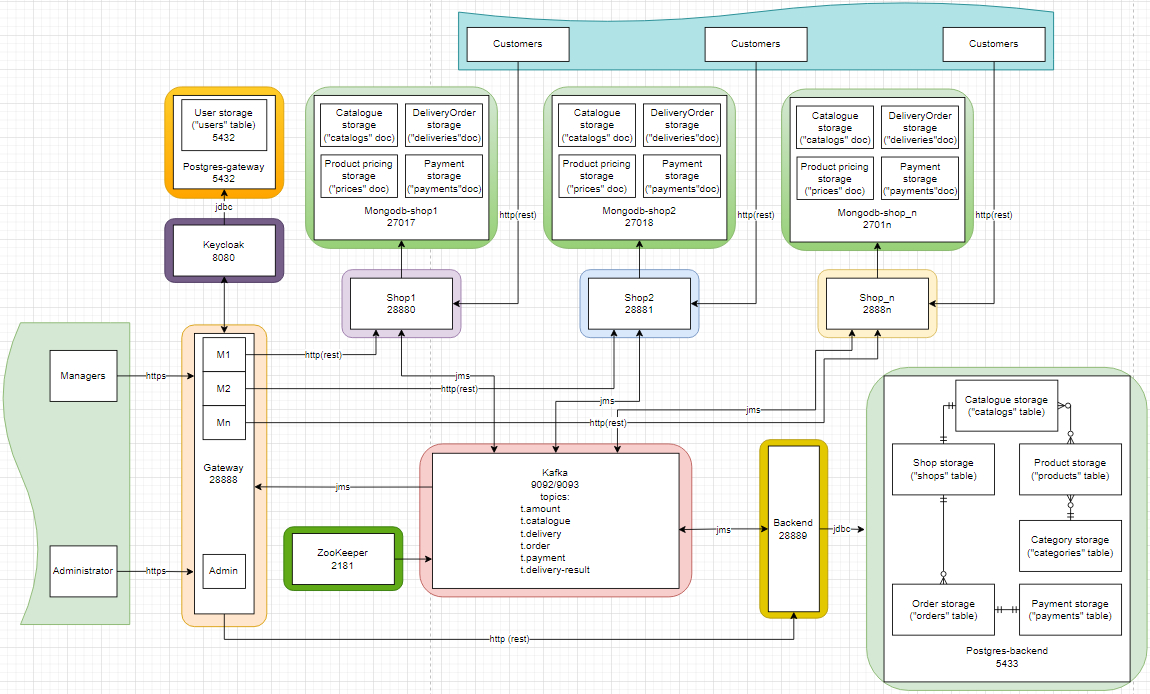
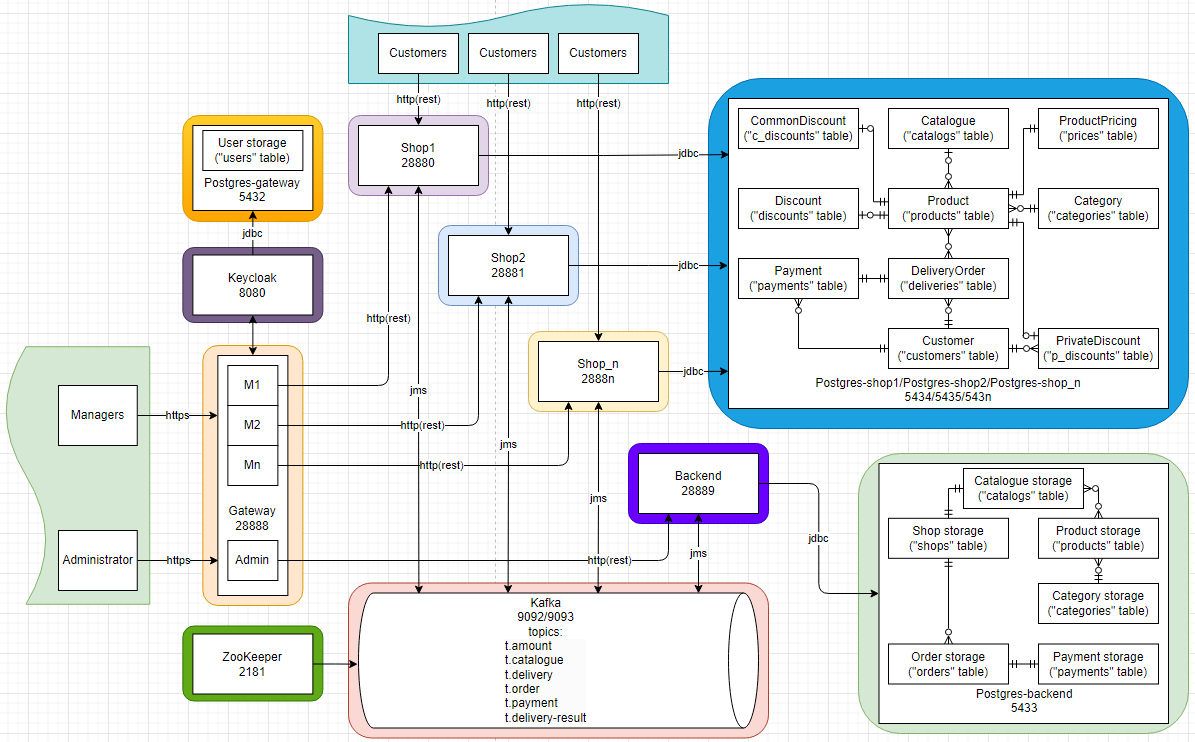
rework shop service from mongodb to postgres step 13 update README.md

diff --git a/README.md b/README.md
@@ -17,11 +17,11 @@ Despite the shortcomings and errors (including architectural ones), this is a gr
     * [Services](#services)
         * [Gateway service](#gateway)
         * [Backend service with PostgresQL database](#backend-with-PostgresQL-database)
-        * [Shop1-n with Mongo database](#Shop1-n-with-Mongo-database)
+        * [Shop1-n with Mongo database](#Shop1-n-with-PostgresQL-database)
         * [Kafka](#kafka)
         * [Zookeeper](#zookeeper)
         * [Keycloak with PostgresQL database](#keycloak-with-PostgresQL-database)
-        * [Mongo-express](#mongo-express)
+        * [~~Mongo-express~~](#mongo-express)
     * [Security](#security)
     * [Running Instructions](#running-instructions)
         * [Via docker](#via-docker)
@@ -40,7 +40,7 @@ Despite the shortcomings and errors (including architectural ones), this is a gr
 
 ### Planned
 
-- Implement the discount system
+- Implement the discount system (in progress)
 - Integrate Apache Cassandra for logging events from all project modules
 - Collecting and displaying statistics for managers and administrator in the web interface
 - Make a simple but visual web interface for customers (registration, purchases, refunds, viewing purchase history)
@@ -57,6 +57,7 @@ The microservice architectural style is an approach to developing a single appli
  - [Early version 004](images/early_version004.jpg)
  - [Early version 005](images/early_version005.jpg)
  - [Early version 006](images/early_version006.jpg)
+ - [Early version 007](images/early_version007.jpg)
 
 
 ## Services
@@ -89,15 +90,17 @@ Its tasks include:
 The service provides storage of information about catalogs, categories, products, stores, orders and payments.
 Since entities have relationships, the popular Postgresql database was chosen to store them.
 
-### Shop1-n with Mongo database
+### Shop1-n with PostgresQL database
 
 The service is designed to serve customers. This service is managed by managers, they make a catalog of products available in the storage, 
-set prices, change prices. Each such service stores information about the catalog, delivered products, payments and current prices. 
-MongoDB is used as the database. Stored entities have no relationships, so it was decided to use a NoSQL database. Here, as well as on 
+set prices, change prices. ~~Each such service stores information about the catalog, delivered products, payments and current prices. 
+MongoDB is used as the database. Stored entities have no relationships, so it was decided to use a NoSQL database.~~ Here, as well as on 
 the backend service, the order expiration mechanism works - after a certain time (now it is 5 minutes), 
 the payment and the order are considered expired and become unavailable for payment. The structure of the Shop service is built so that you can make the required
 number of them with minimal settings (change the marked fields in application.yml, add new service in docker-compose and register a new service on the Gateway service). 
 At the moment, the service has only a REST api for working with customers, but in the future I plan to add a web interface.
+
+Update(03.01.2023) The service has been rewritten to use the PostgresQL database. The addition of the discount system led to relationships between stored entities.
 
 Its tasks include:
  - store and provide a product catalog for customers
@@ -175,8 +178,10 @@ In this project I used the following features:
 
 ### Mongo-express
 
-Web-based MongoDB admin interface written with Node.js, Express and Bootstrap3. This service is optional and is used for
-clarity and convenience of monitoring the contents of the database.
+~~Web-based MongoDB admin interface written with Node.js, Express and Bootstrap3. This service is optional and is used for
+clarity and convenience of monitoring the contents of the database.~~
+
+This module has lost relevance due to the transition to PostgresQL database in the shop services.
 
 ## Security
 
